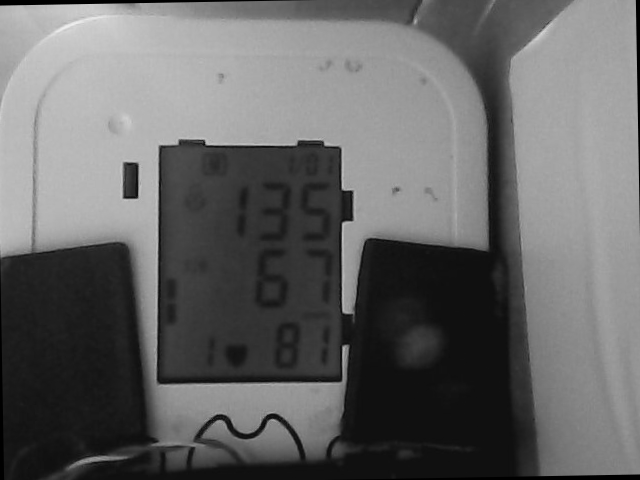
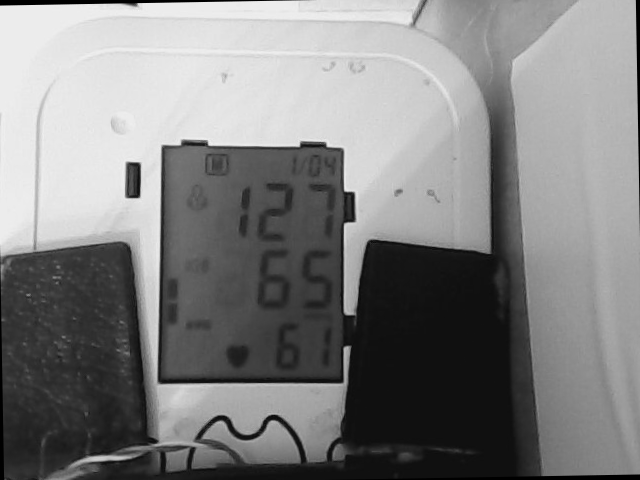
new cam coordinates

diff --git a/measure_recognition/seteseg.py b/measure_recognition/seteseg.py
@@ -1,6 +1,6 @@
 import cv2
 
-img = cv2.imread("2025-11-10-182537.jpg")
+img = cv2.imread("2025-11-11-185902.jpg")
 height, width = img.shape[:2]
 center = (width/2, height/2)
 
@@ -78,9 +78,9 @@ def ler_digito(dig_img, debug_img, x0, y0):
 
 # --- Coordenadas fixas dos dígitos (x, y, w, h) ---
 digitos_coord = {
-    "sistolica": [(215, 180, 30, 60), (256, 180, 30, 60), (300, 180, 30, 60)],
-    "diastolica": [(256, 248, 30, 60), (300, 248, 30, 60)],
-    "pulso": [(276, 322, 22, 45), (304, 322, 22, 45)]
+    "sistolica": [(217, 180, 30, 60), (258, 180, 30, 60), (302, 180, 30, 60)],
+    "diastolica": [(258, 248, 30, 60), (302, 248, 30, 60)],
+    "pulso": [(278, 322, 22, 45), (306, 322, 22, 45)]
 }
 
 # --- Processar cada grupo ---
